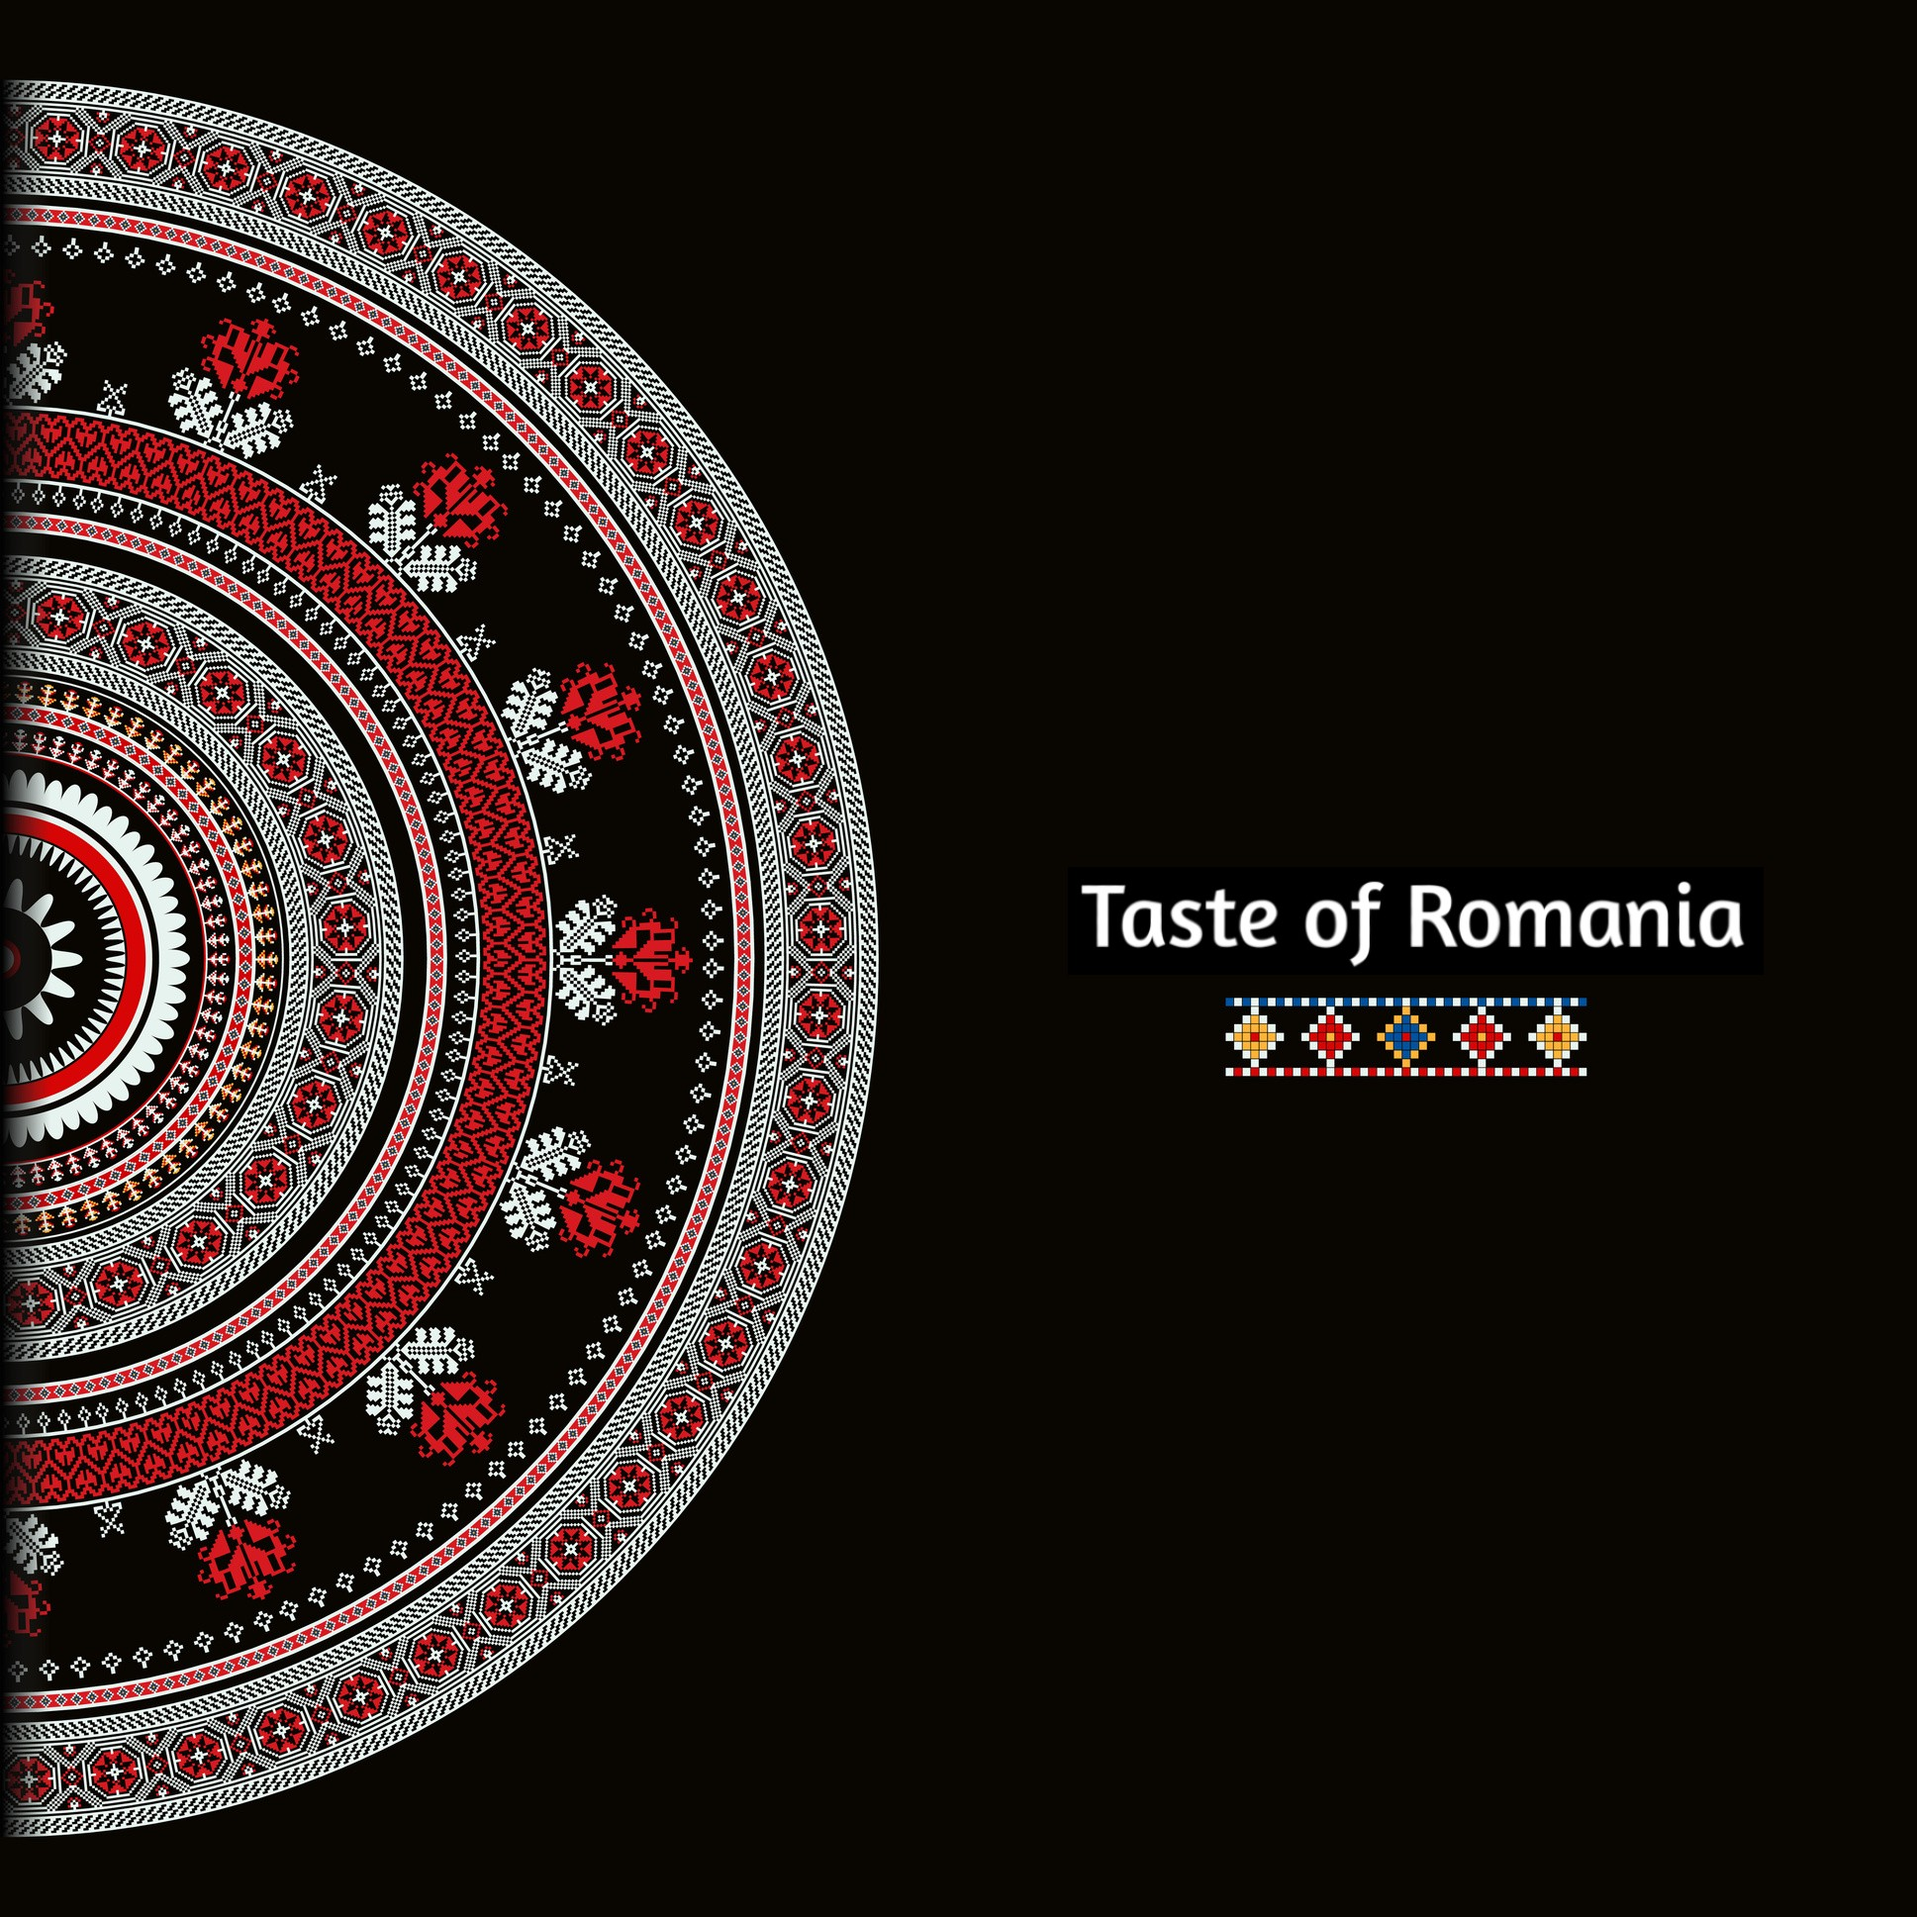
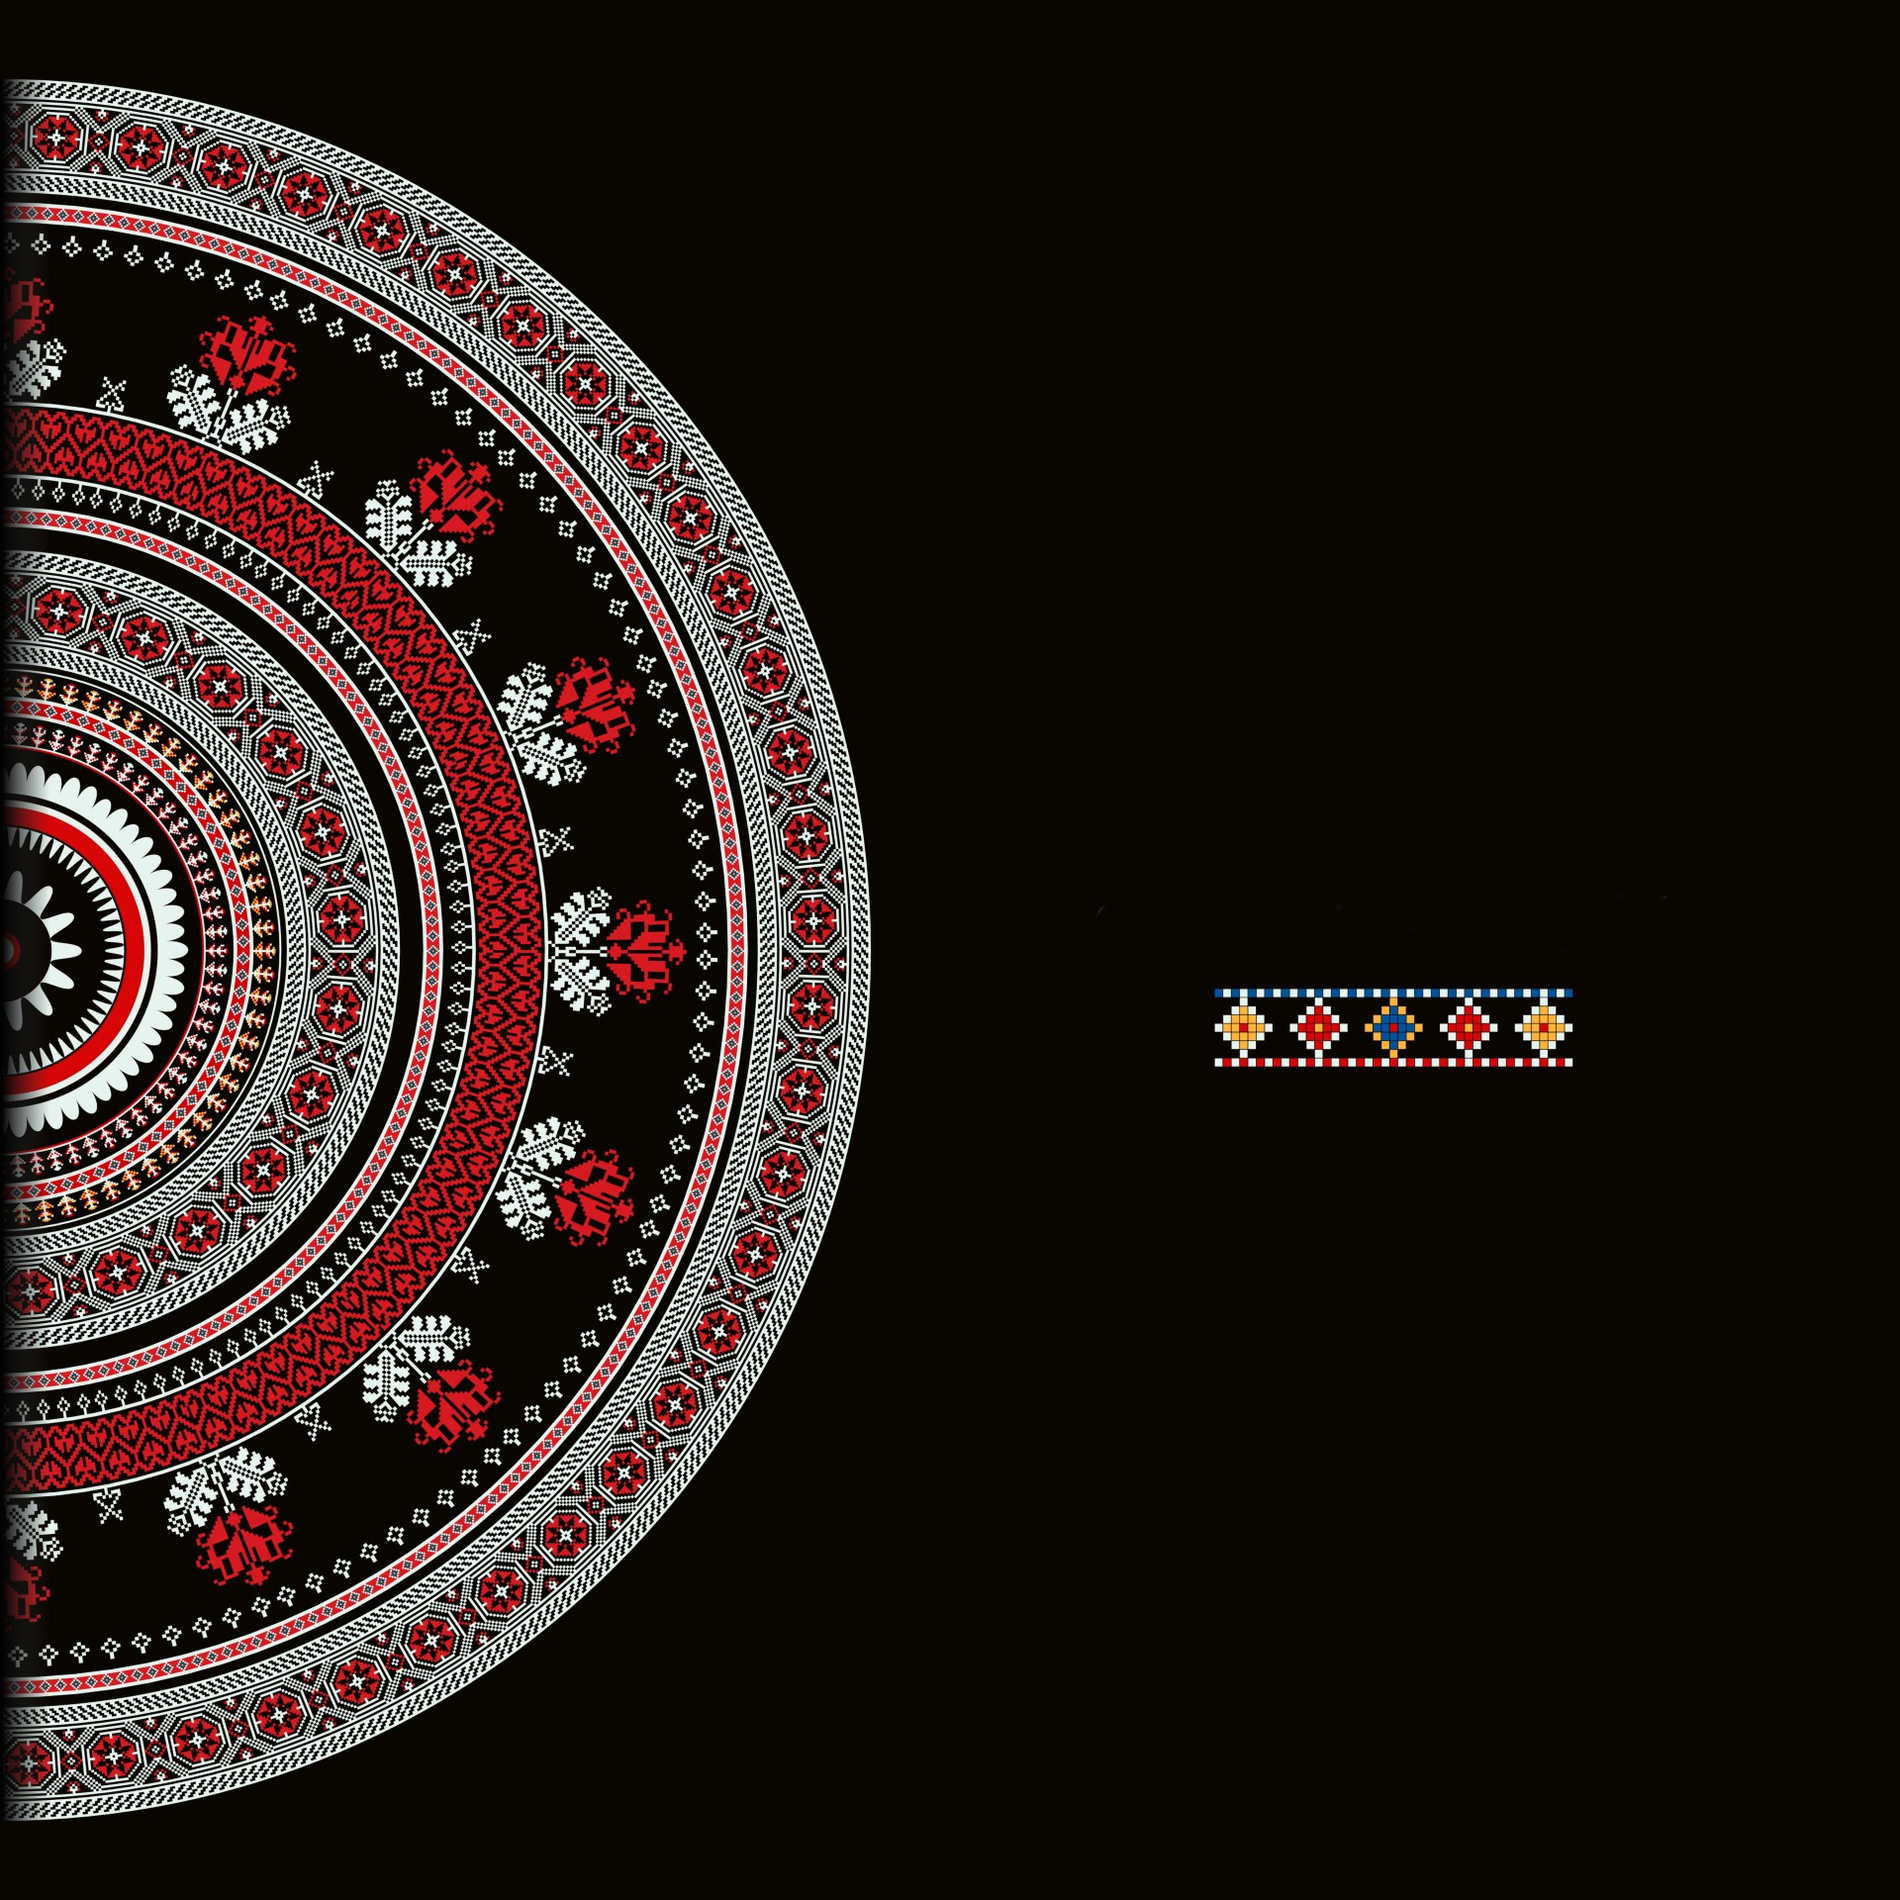
Fix image home landing page

diff --git a/home/templates/home/index.html b/home/templates/home/index.html
@@ -10,21 +10,16 @@
 {% endblock %}
 
 {% block content %}
-<div class="container-fluid p-0 d-flex">
-    <div class="row">
-        <div class="d-flex p-0 align-items-end justify-content-end">
-            <img src="media/taste_of_romania_home.jpg" class="home-image" alt="image home romania symbol">
-            <div class="text-home mr-5 mt-5">
-                <h1 class="display-4 logo-font mb-3">
-                    Traditional Romanian specialties and gifts
-                </h1>
-                <h2 class="display-4 logo-font mb-3">Explore, Order, Enjoy!</h2>
-                <h4 class="my-5 ">
-                    <a href="" class="see-products-button btn btn-lg rounded-0 text-uppercase py-3 text-white ">See our
-                        Products</a>
-                </h4>
-            </div>
-         </div>
+<div class="landing-page">
+    <img src="media/taste_of_romania_home.jpg" class="home-image" alt="image home romania symbol"> 
+    <div class="home-container text-white">
+        <h1>
+            Traditional Romanian specialties and gifts
+        </h1>
+        <h2>Explore, Order, Enjoy!</h2>
+        <h4>
+            <a href="" class="see-products-button btn btn-lg rounded-0 text-uppercase py-3 text-white ">See our Products</a>
+        </h4>
     </div>
 </div>
 

diff --git a/static/css/base.css b/static/css/base.css
@@ -1,8 +1,8 @@
 @import url('https://fonts.googleapis.com/css2?family=Amaranth&family=Open+Sans&display=swap');
 
-html {
+html, body {
     height: 100%;
-   
+    margin: 0;
 }
 
 body {
@@ -21,28 +21,33 @@ h1, h2, h4 {
     color: #090601 !important;
 }
 
+.landing-page {
+    height: calc(100vh - 100px);
+    position: relative;
+    display: flex;
+    align-items: center;
+    background-color: #090601;
+}
 
 .home-image {
-    margin-top: 5%;
-    overflow: hidden;
+    width: 50%;
+    height: 100%;
+    object-fit: cover;
+}
+
+.home-container {
+    flex-grow: 1;
+    padding: 20px;
+    margin-top: 2%;
+    box-sizing: border-box;
     
-}
-
-.text-home{
-    background-color: #090601;
-    color: white;
-    overflow: hidden;
-    position: absolute;
-    text-align: left;
-    top: 40%;
-}
-
-.black-container{
-    background-color: #090601;
 }
 
 .see-products-button {
     background-color: #8b181e;
+    position: absolute;
+    bottom: 30%;
+    right: 33%;
 }
 
 .bg-threshold, .ship-container {
